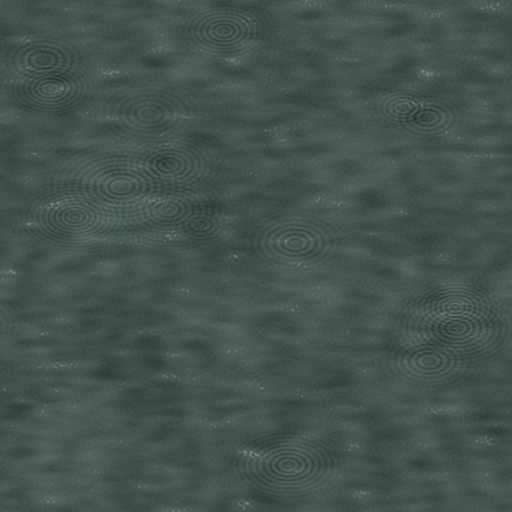
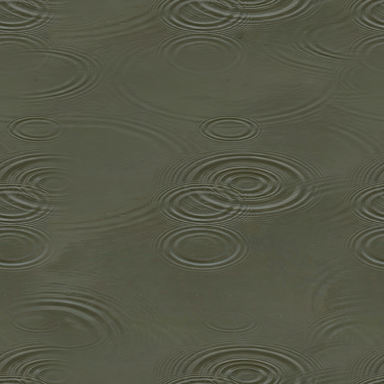
Water: back to the original photo, made seamless
The procedural water looked too plain. render_water.py now takes the original
water photos (kept as sources in tools/sprites/src/terrain/) and makes them
tile: row/column mean colour is divided out (removes the light falloff and the
olive band that striped big lakes), each axis is cross-faded with a half-rolled
copy, and broad tone patches are partly levelled with a wrap-around blur.
Edge jump vs interior: 6.38 -> 0.92 (water.png).

diff --git a/tools/sprites/render_water.py b/tools/sprites/render_water.py
@@ -1,12 +1,20 @@
-"""Seamless water texture for the terrain atlas.
+"""Seamless water texture for the terrain atlas, made from the water photo.
 
 The canvas repeats the water image edge to edge (`ctx.createPattern(img, "repeat")`),
-so every part of it must wrap: noise is built in frequency space (periodic by
-construction) and ripple rings use toroidal distance, so a ring that leaves one
-edge comes back on the opposite one. No gradient, no vignette.
+so the photo has to wrap. Two things broke that in the raw crop:
+
+1. Light falloff and bands: the top is lighter and bluer than the bottom, with
+   a dark olive strip near the bottom. Every row's (and column's) mean colour
+   is divided out, so tone is flat while the ripples and glints stay.
+2. Edges: the left/right and top/bottom content does not continue. Each axis is
+   cross-faded with a copy of the photo rolled by half its size, so the edge
+   rows come from the middle of the photo (which is continuous). The blend keeps
+   contrast (variance-preserving) so the joins do not go flat and grey.
+3. Patches: once it wraps, broad dark/light patches are evened out with a
+   wrap-around blur so a large lake does not show the tile as stripes.
 
     python3 tools/sprites/render_water.py            # writes water.png and water-b.png
-    python3 tools/sprites/render_water.py --preview  # also writes a 3x3 tiled check
+    python3 tools/sprites/render_water.py --preview /tmp/w.png  # also a 3x3 tiled check
 """
 
 from __future__ import annotations
@@ -18,69 +26,79 @@ import numpy as np
 from PIL import Image
 
 ROOT = Path(__file__).resolve().parents[2]
+SRC = ROOT / "tools/sprites/src/terrain"
 OUT = ROOT / "gridlock/packages/client/src/assets/terrain"
-SIZE = 512
 
-# Palette locked to the old photo crop's mean (72, 84, 75): dark teal-green pond.
-DEEP = np.array([58.0, 71.0, 66.0])
-SHALLOW = np.array([80.0, 96.0, 90.0])
-GLINT = np.array([150.0, 170.0, 165.0])
-
-
-def periodic_noise(rng: np.random.Generator, n: int, lo: float, hi: float, aspect: float = 1.0) -> np.ndarray:
-    """Band-limited noise that tiles exactly: white noise filtered in the FFT domain."""
-    white = rng.standard_normal((n, n))
-    fy = np.fft.fftfreq(n)[:, None] * n
-    fx = np.fft.fftfreq(n)[None, :] * n
-    f = np.sqrt((fx * aspect) ** 2 + fy**2)
-    band = np.exp(-((np.log2(np.maximum(f, 1e-6)) - np.log2((lo * hi) ** 0.5)) ** 2) / (2 * (np.log2(hi / lo) / 2.5) ** 2))
-    band[0, 0] = 0
-    out = np.real(np.fft.ifft2(np.fft.fft2(white) * band))
-    return (out - out.mean()) / (out.std() + 1e-9)
+# Width of each cross-fade, as a fraction of the tile. Wider hides the join
+# better; narrower keeps more of the photo untouched.
+BLEND = 0.22
+# Big blotches (the photo's dark olive band) repeat as stripes on a lake. Tone
+# patches wider than this blur are evened out by LEVEL (1 = fully flat).
+LEVEL_SIGMA = 36.0
+LEVEL = 0.6
+# Row/column means are smoothed this much (px) before they are divided out.
+ROW_SIGMA = 3.0
 
 
-def wrap_delta(a: np.ndarray, c: float, n: int) -> np.ndarray:
-    return (a - c + n / 2) % n - n / 2
+def smooth1d(v: np.ndarray, sigma: float) -> np.ndarray:
+    """Gaussian smoothing along axis 0 (edges clamped)."""
+    r = int(3 * sigma)
+    k = np.exp(-0.5 * (np.arange(-r, r + 1) / sigma) ** 2)
+    k /= k.sum()
+    padded = np.concatenate([np.repeat(v[:1], r, 0), v, np.repeat(v[-1:], r, 0)])
+    return np.stack([np.convolve(padded[:, c], k, mode="valid") for c in range(v.shape[1])], axis=1)
 
 
-def ripples(rng: np.random.Generator, n: int, count: int) -> np.ndarray:
-    """Embossed concentric rings, wrapped on the torus. Returns signed shading."""
-    yy, xx = np.mgrid[0:n, 0:n].astype(float)
-    acc = np.zeros((n, n))
-    for _ in range(count):
-        cx, cy = rng.uniform(0, n, 2)
-        rmax = rng.uniform(n * 0.06, n * 0.2)
-        wave = rng.uniform(5.0, 8.0)
-        amp = rng.uniform(0.5, 1.0)
-        dx = wrap_delta(xx, cx, n)
-        # Flatten the rings vertically a little: the ground is seen at 2:1 iso.
-        dy = wrap_delta(yy, cy, n) * 1.6
-        r = np.sqrt(dx * dx + dy * dy)
-        env = np.clip(1 - r / rmax, 0, 1) ** 1.5 * np.clip(r / (wave * 1.5), 0, 1)
-        # sin gives the light/dark pair that reads as a raised ring.
-        acc += amp * env * np.sin(2 * np.pi * r / wave)
-    return acc
+def flatten_light(a: np.ndarray) -> np.ndarray:
+    """Even out every row's and column's mean colour, keep the photo's mean.
+
+    The photo's light falloff and its olive band both run across the frame, so
+    they live in the row means; ripples and glints do not and stay put.
+    """
+    mean = a.reshape(-1, 3).mean(0)
+    rows = smooth1d(a.mean(1), ROW_SIGMA)
+    a = a * (mean / rows)[:, None, :]
+    cols = smooth1d(a.mean(0), ROW_SIGMA)
+    return a * (mean / cols)[None, :, :]
 
 
-def render(seed: int) -> np.ndarray:
-    rng = np.random.default_rng(seed)
-    n = SIZE
-    depth = periodic_noise(rng, n, 1.5, 4.0)
-    mottle = periodic_noise(rng, n, 6.0, 16.0)
-    # Wind chop: long horizontal streaks, like the light catching low swell.
-    chop = periodic_noise(rng, n, 10.0, 40.0, aspect=3.0)
-    fine = periodic_noise(rng, n, 60.0, 140.0)
+def fade_weight(n: int) -> np.ndarray:
+    """1 in the middle, 0 at both ends, smoothstep across BLEND of the tile."""
+    d = np.minimum(np.arange(n) + 0.5, n - np.arange(n) - 0.5) / n  # 0 at edge, 0.5 mid
+    t = np.clip(d / BLEND, 0, 1)
+    return t * t * (3 - 2 * t)
 
-    t = np.clip(0.5 + 0.12 * depth + 0.1 * mottle, 0, 1)[..., None]
-    col = DEEP * (1 - t) + SHALLOW * t
-    col += (4.0 * chop + 1.6 * fine)[..., None]
 
-    ring = ripples(rng, n, 16)
-    col += (16.0 * ring)[..., None]
+def wrap_axis(a: np.ndarray, axis: int) -> np.ndarray:
+    n = a.shape[axis]
+    b = np.roll(a, n // 2, axis=axis)
+    w = fade_weight(n)
+    w = w[:, None, None] if axis == 0 else w[None, :, None]
+    mean = a.reshape(-1, 3).mean(0)
+    mix = w * (a - mean) + (1 - w) * (b - mean)
+    return mix / np.sqrt(w * w + (1 - w) ** 2) + mean
 
-    glint = np.clip(chop * 0.7 + fine * 0.5 - 1.9, 0, None)
-    col = col + (GLINT - col) * np.clip(glint * 0.35, 0, 0.45)[..., None]
-    return np.clip(col, 0, 255).astype(np.uint8)
+
+def level_patches(a: np.ndarray) -> np.ndarray:
+    """Divide out broad tone/tint patches with a wrap-around Gaussian, keep detail."""
+    h, w, _ = a.shape
+    fy = np.fft.fftfreq(h)[:, None]
+    fx = np.fft.fftfreq(w)[None, :]
+    g = np.exp(-2 * (np.pi * LEVEL_SIGMA) ** 2 * (fx * fx + fy * fy))
+    mean = a.reshape(-1, 3).mean(0)
+    out = np.empty_like(a)
+    for c in range(3):
+        low = np.real(np.fft.ifft2(np.fft.fft2(a[..., c]) * g))
+        out[..., c] = a[..., c] * (mean[c] / np.maximum(low, 1)) ** LEVEL
+    return out
+
+
+def make_seamless(img: np.ndarray) -> np.ndarray:
+    a = flatten_light(img.astype(float))
+    a = wrap_axis(a, 1)
+    a = wrap_axis(a, 0)
+    a = level_patches(a)
+    return np.clip(np.round(a), 0, 255).astype(np.uint8)
 
 
 def seam_score(img: np.ndarray) -> float:
@@ -95,10 +113,14 @@ def main() -> None:
     ap = argparse.ArgumentParser()
     ap.add_argument("--preview", type=Path, help="write a 3x3 tiled check image here")
     args = ap.parse_args()
-    for name, seed in (("water.png", 7), ("water-b.png", 19)):
-        img = render(seed)
+    for src, name in (("water-photo.png", "water.png"), ("water-photo-b.png", "water-b.png")):
+        raw = np.asarray(Image.open(SRC / src).convert("RGB"))
+        img = make_seamless(raw)
         Image.fromarray(img).save(OUT / name, optimize=True)
-        print(f"{name}: mean {img.reshape(-1, 3).mean(0).round(1)} seam {seam_score(img):.2f}")
+        print(
+            f"{name}: mean {img.reshape(-1, 3).mean(0).round(1)} (photo {raw.reshape(-1, 3).mean(0).round(1)})"
+            f" seam {seam_score(img):.2f} (photo {seam_score(raw):.2f})"
+        )
         if args.preview and name == "water.png":
             Image.fromarray(np.tile(img, (3, 3, 1))).save(args.preview)
 
